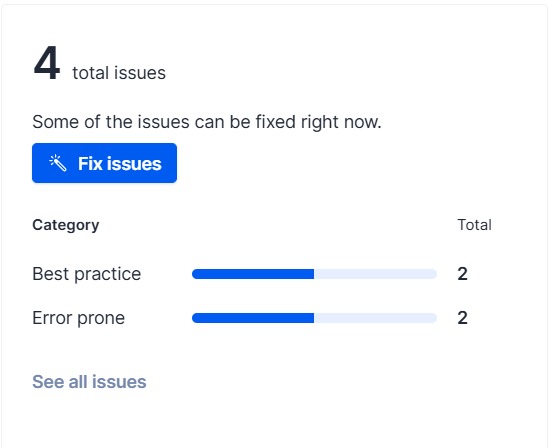
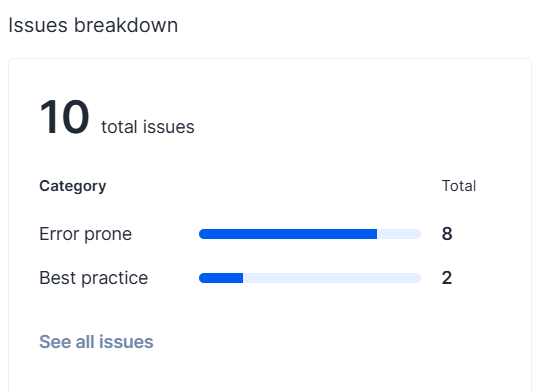
Update codacy result image in M5 doc

diff --git a/documentation/M5_Testing_and_Code_Review.md b/documentation/M5_Testing_and_Code_Review.md
@@ -9,6 +9,7 @@
 | 04/03/2025 | 3.2. Justifications for Unfixed Issues | Updated the remaining Codacy Issues and Justifications for them
 | 04/03/2025 | 3.2. Tests | Added Report and Ban Test Locations
 | 04/04/2025 | 2.3 2.4 Jest Test Images | Updated the latest jest test results images
+| 04/04/2025 | 5.2 Codacy Image | Updated the latest codacy issue image
 
 ---
 
@@ -225,5 +226,5 @@ npm test # Make sure to add the .env file before running this command
      - **Location in Git:** [`backend/controllers/RecommendationController.ts`](#)
      - **Justification:** I tried to resolve this non-null assertion issue by adding an if statement to return null when [`userScores` or `proposerPrefs` or `proposalCount`] is empty but the return null line of code is not covered in jest test. This means that [`userScores` or `proposerPrefs` or `proposalCount`] will never be null. Hence, I think this is a false positive by Codacy.
   4. **Expression with labels increase complexity**
-  - **Location in Git:**[`android_app/app/src/main/java/com/example/cpen321project/ChatActivity.kt`](#)  
-  - **Justification:** Since this code that is sinchronously fetching messages inside a thread it is important to specify that the UI thread, so that it gracefully ends execusion, in the return statement. 
+      - **Location in Git:**[`android_app/app/src/main/java/com/example/cpen321project/ChatActivity.kt`](#)  
+      - **Justification:** Since this code that is sinchronously fetching messages inside a thread it is important to specify that the UI thread, so that it gracefully ends execusion, in the return statement. 
